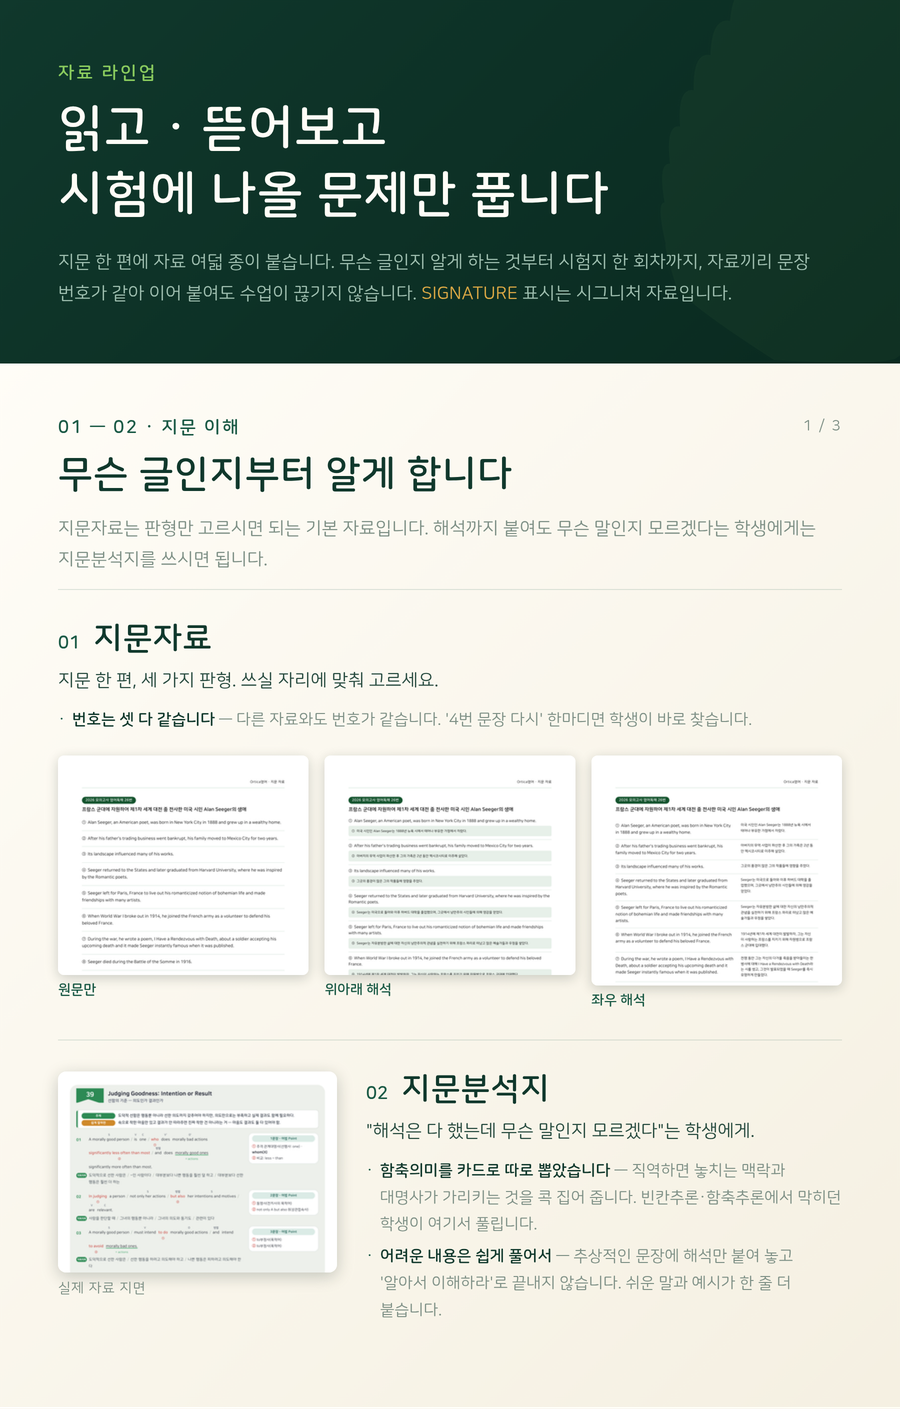
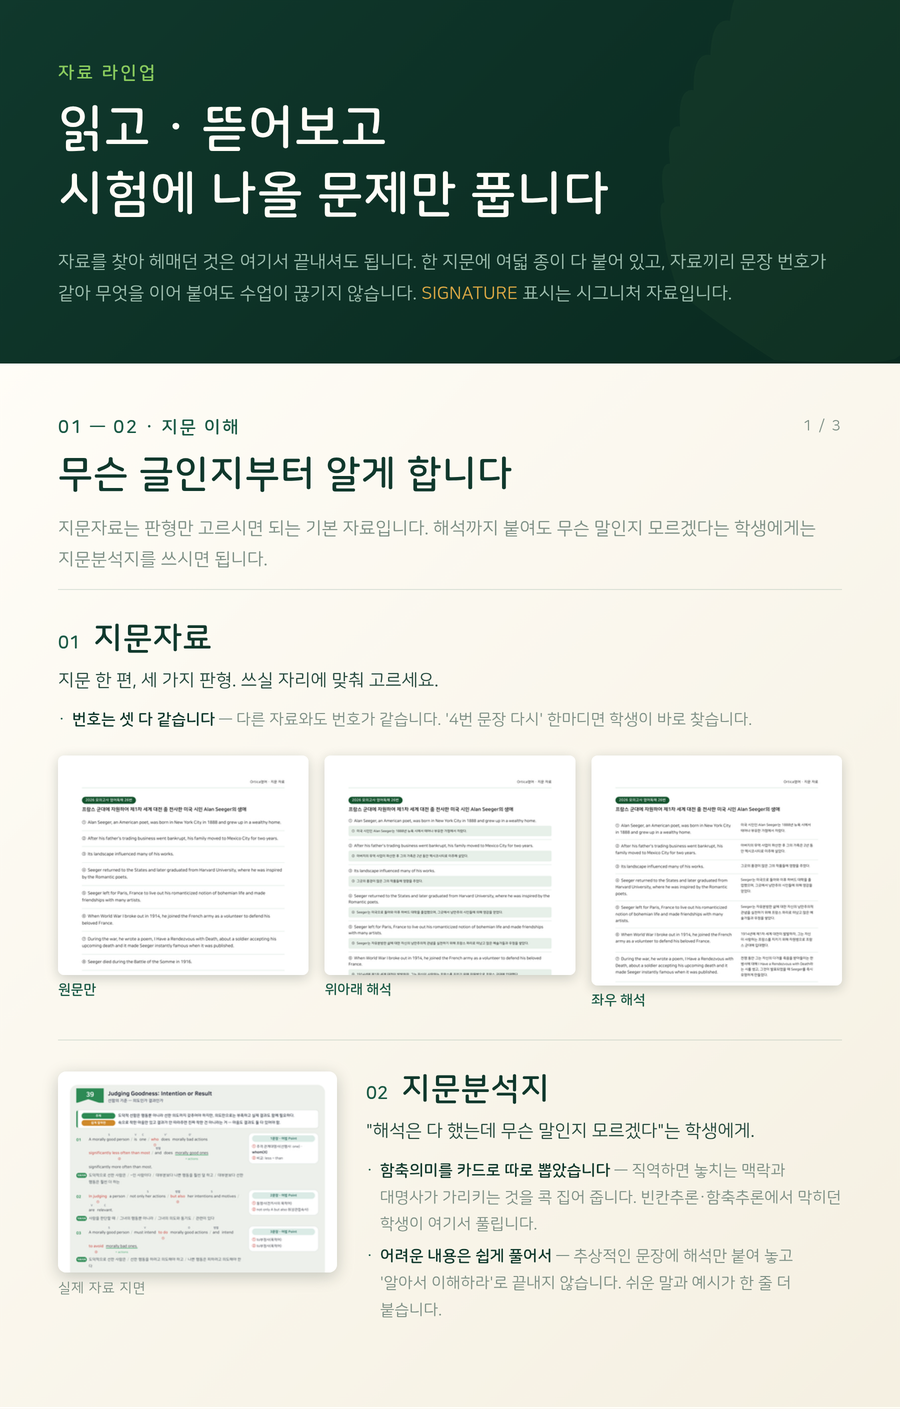
라인업 머리말을 '자료 찾아 헤매던 것을 끝내는 자리'로
여덟 종이 붙는다는 사실만 적고 있었다. 사는 사람이 겪고 있는 것은 자료를
여기저기서 모아 짜깁기하는 일이고, 그것이 끝난다는 말이 먼저 와야 한다.

  자료를 찾아 헤매던 것은 여기서 끝내셔도 됩니다. 한 지문에 여덟 종이 다
  붙어 있고, 자료끼리 문장 번호가 같아 무엇을 이어 붙여도 수업이 끊기지
  않습니다.

Claude-Session: https://claude.ai/code/session_015BpsJgtaBR6xs1aCKnE4xw

Changed region(s): [[0.0622, 0.1559, 0.7778, 0.2183], [0.8089, 0.1559, 0.9022, 0.1871]]

diff --git a/brand/build.py b/brand/build.py
@@ -495,8 +495,8 @@ def build_lineup(width: int = DOC_W, part: int | None = None) -> tuple[str, int]
               읽고 · 뜯어보고<br>시험에 나올 문제만 풉니다</div>
             <div class="sans" style="margin-top:{u * 2.0:.0f}px;font-size:{u * 2.05:.0f}px;
                  color:{head_t['muted']};line-height:1.75;word-break:keep-all">
-              지문 한 편에 자료 여덟 종이 붙습니다. 무슨 글인지 알게 하는 것부터
-              시험지 한 회차까지, 자료끼리 문장 번호가 같아 이어 붙여도 수업이
+              자료를 찾아 헤매던 것은 여기서 끝내셔도 됩니다. 한 지문에 여덟 종이
+              다 붙어 있고, 자료끼리 문장 번호가 같아 무엇을 이어 붙여도 수업이
               끊기지 않습니다.
               <span style="color:{P['gold']}">SIGNATURE</span> 표시는 시그니처 자료입니다.</div>
           </div>
@@ -801,8 +801,8 @@ def write_posts() -> list[Path]:
 
 {img('lineup-1-read.png')}
 
-지문 한 편에 자료 여덟 종이 붙습니다. 무슨 글인지 알게 하는 것부터 시험지 한
-회차까지, 자료끼리 문장 번호가 같아 이어 붙여도 수업이 끊기지 않습니다.
+자료를 찾아 헤매던 것은 여기서 끝내셔도 됩니다. 한 지문에 여덟 종이 다 붙어
+있고, 자료끼리 문장 번호가 같아 무엇을 이어 붙여도 수업이 끊기지 않습니다.
 자료 한 종씩 자세히 보시려면 각 상세페이지 글로 가시면 됩니다.
 
 ## 지문 이해 (01 — 02)

diff --git a/brand/posts/00-lineup.md b/brand/posts/00-lineup.md
@@ -6,8 +6,8 @@
 ![](lineup-1-read.png)
 <!-- 이미지: brand/assets/lineup-1-read.png -->
 
-지문 한 편에 자료 여덟 종이 붙습니다. 무슨 글인지 알게 하는 것부터 시험지 한
-회차까지, 자료끼리 문장 번호가 같아 이어 붙여도 수업이 끊기지 않습니다.
+자료를 찾아 헤매던 것은 여기서 끝내셔도 됩니다. 한 지문에 여덟 종이 다 붙어
+있고, 자료끼리 문장 번호가 같아 무엇을 이어 붙여도 수업이 끊기지 않습니다.
 자료 한 종씩 자세히 보시려면 각 상세페이지 글로 가시면 됩니다.
 
 ## 지문 이해 (01 — 02)
